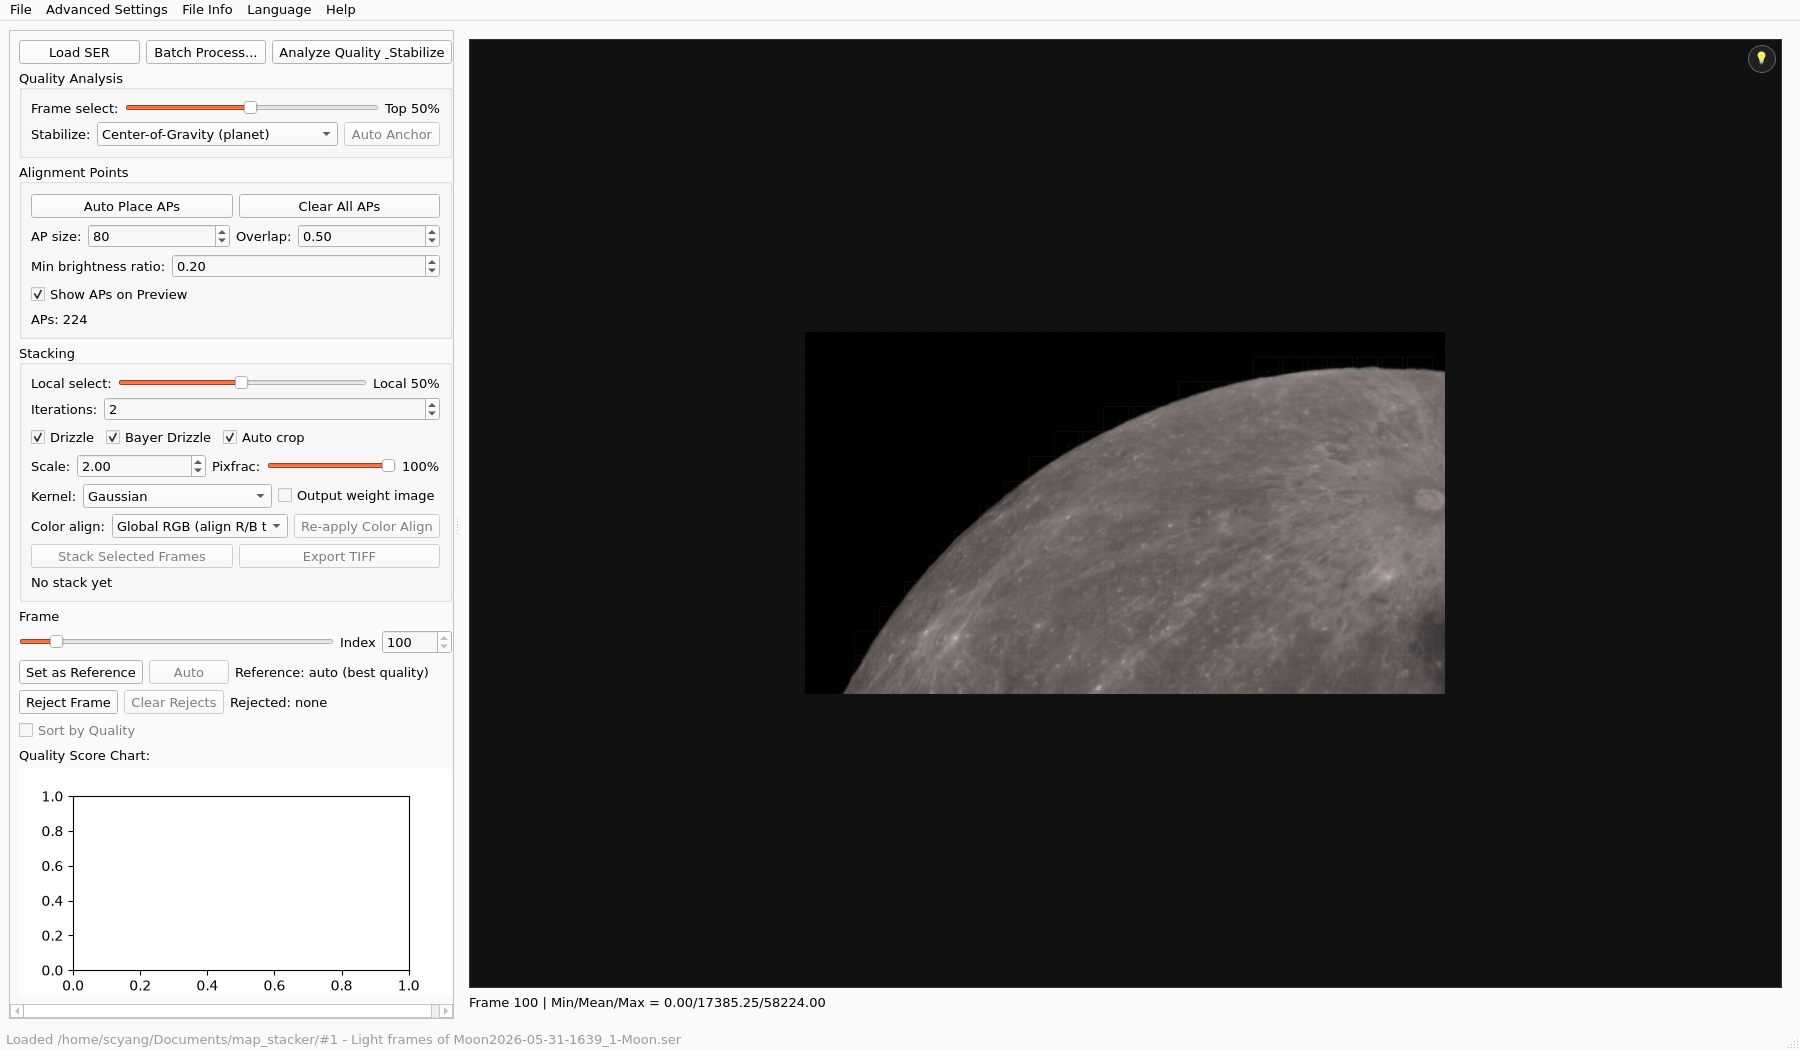
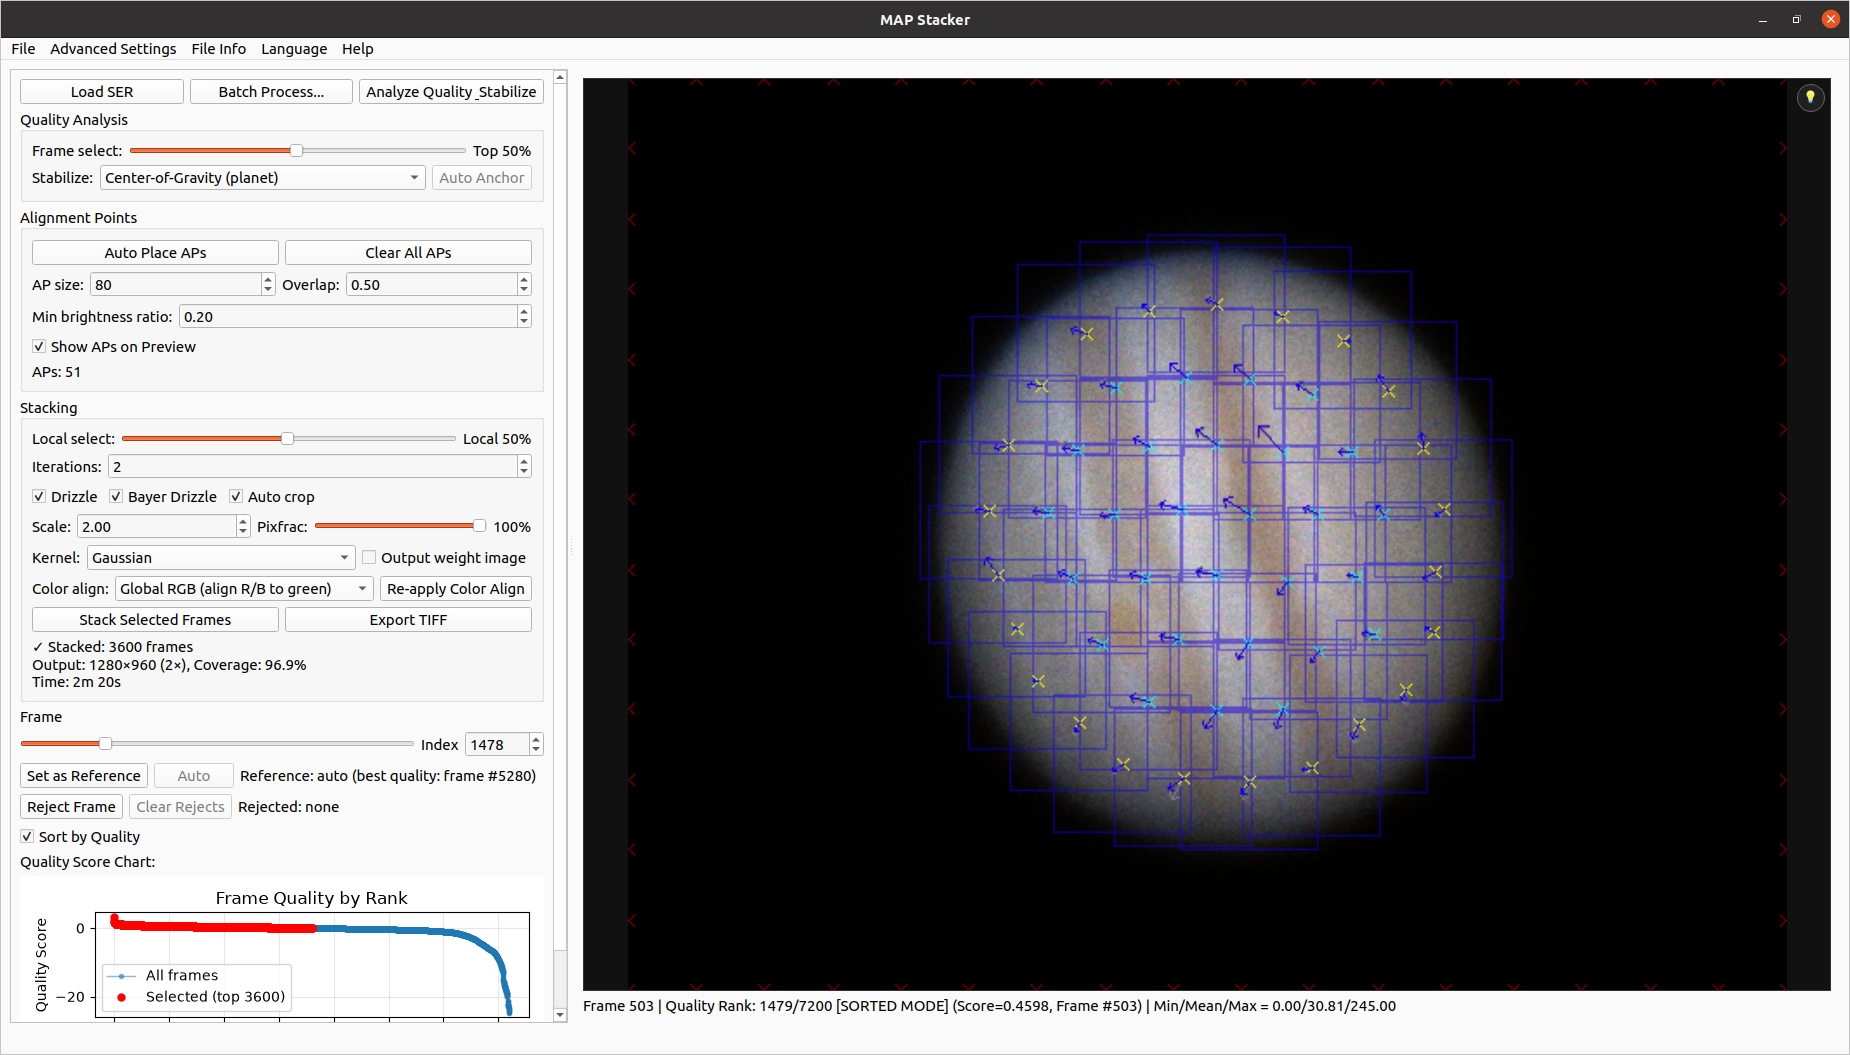
Use supplied application screenshot

diff --git a/src/styles/global.css b/src/styles/global.css
@@ -206,6 +206,9 @@ figure picture,
 figure picture img {
   display: block;
   width: 100%;
+  height: auto;
+  aspect-ratio: auto;
+  object-fit: contain;
 }
 
 figure picture {
